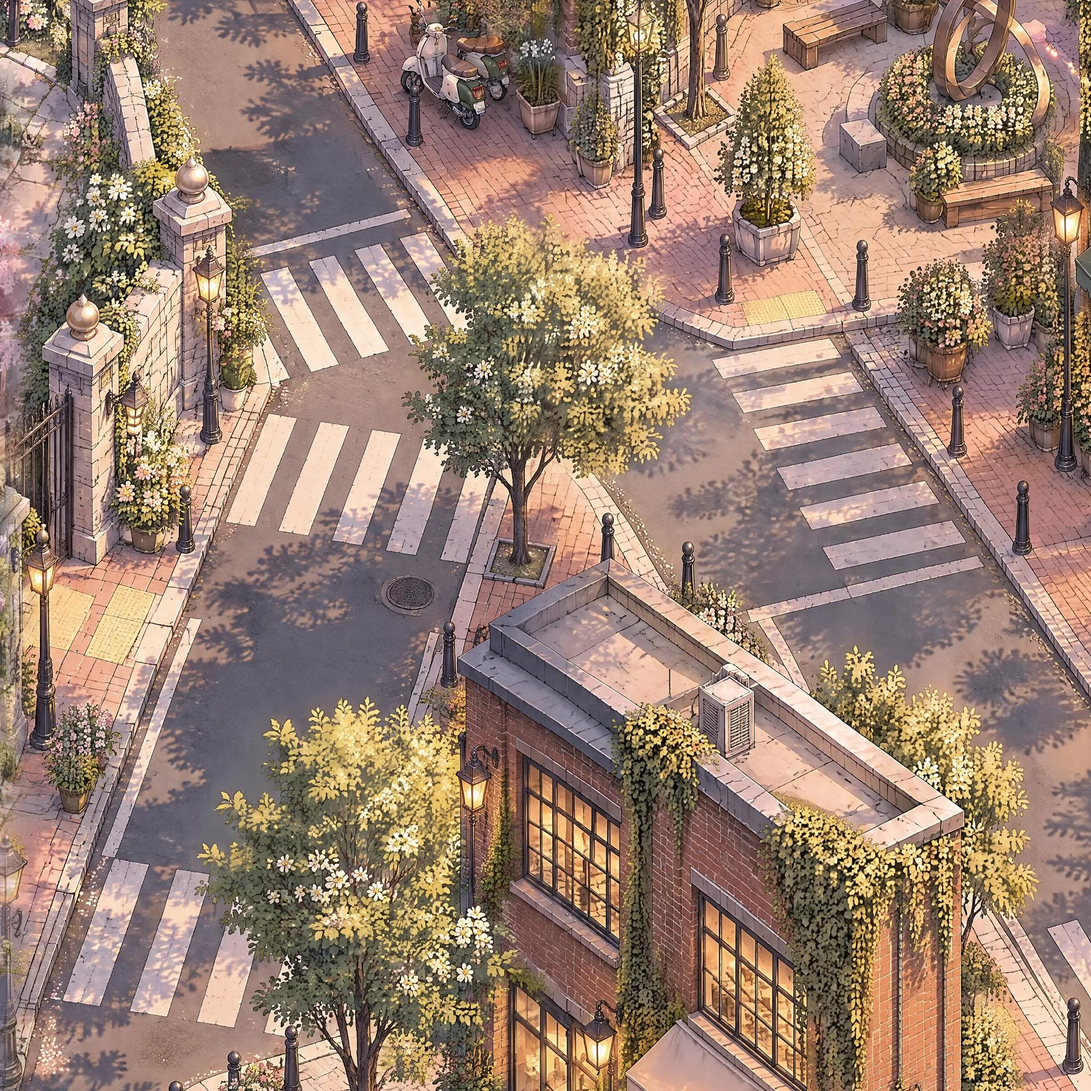
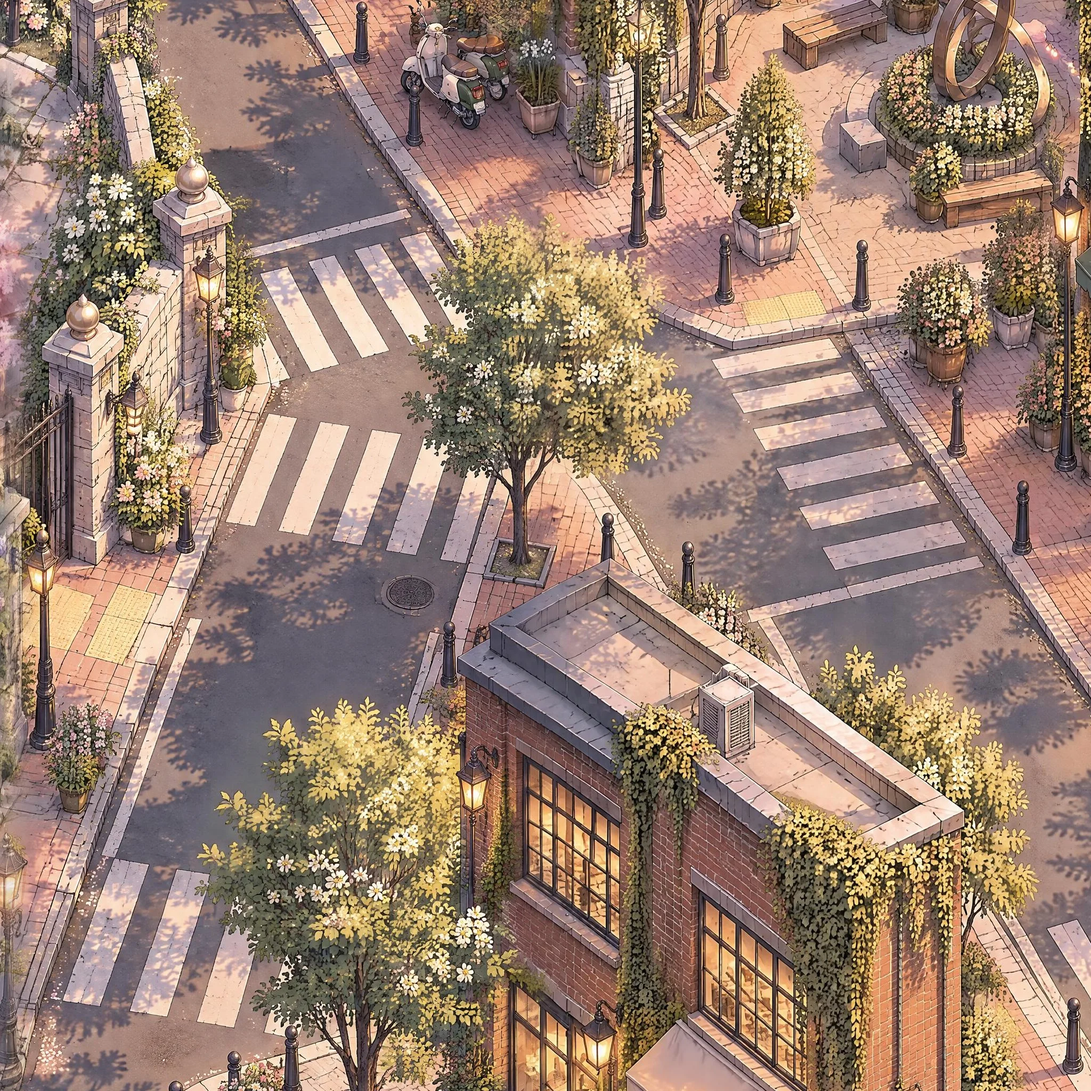
탐색 월드 축척 통일: 정문 광장·아래 정원·연못을 같은 축척으로 다시 그림, 걷기 분할·연결·지점 재배치
- 예전 축척(약 2배)으로 남아 있던 구역을 지우고 GPT Image 2.5로 다시 그림(V1·V2)
- 걷기 분할 다시 + 실제 포장길이 보이는 곳만 손보정으로 이어 하나의 걷기 영역으로
- 분수·폭포 물 위치, 가로등 빛, NPC·조사 지점·정문·1-1 자리를 새 그림에 맞춤
- story-field 테스트 좌표 갱신(전체 10개 실패 0)

Claude-Session: https://claude.ai/code/session_01Lq9L68PbbfzQzRiFAshpCf

diff --git a/src/explore/zones.ts b/src/explore/zones.ts
@@ -34,32 +34,32 @@ import WORLDS from '../game/data/explore-world.json'
 const WORLD = WORLDS.academy
 
 // 전경을 두지 않을 곳: 두 분수, 정문, 게시판, 연못 폭포
-const KEEP_CLEAR: [number, number][] = [[545, 3300], [1475, 1290], [984, 2700], [2328, 3028], [3495, 1400], [3490, 2580], [2100, 3100]]
+const KEEP_CLEAR: [number, number][] = [[1072, 2850], [1475, 1290], [1100, 2500], [1640, 2700], [3495, 1400], [3520, 2280], [3330, 3200], [1600, 2850]]
 
 const P = (n: number) => `[임시용 스토리 대사 ${String(n).padStart(2, '0')}]`
 
 export const ACADEMY: Zone = {
   id: 'academy', area: '아카데미 구역', areaEn: 'ACADEMY DISTRICT', place: '정문 광장', dir: 'explore/academy', W: WORLD.W, H: WORLD.H, tile: WORLD.tile, cols: WORLD.cols, rows: WORLD.rows,
   charH: 222, // 벤치 길이·가로등 높이와 비교해 맞춘 키(예전 330은 가로등만큼 커서 배경이 장난감처럼 보였다)
-  start: { x: 1536, y: 3268 },
+  start: { x: 1232, y: 2780 },
   intro: { x: 1250, y: 2350, z: 0.46 }, // 넓게: 본관 앞뜰과 정문을 함께 보여 주고 대원에게 돌진
   // 늦은 오후 햇빛: 왼쪽 위에서. 그림자는 오른쪽 아래로
   light: { amb: [0.8, 0.78, 0.86], sun: [0.26, 0.22, 0.16], dir: [-0.55, -0.62, 0.56], shadow: [0.62, 0.2] },
-  lamps: [{ x: 2745, y: 2821, r: 540, i: 0.35, c: [1, 0.72, 0.42] }, { x: 1851, y: 4024, r: 420, i: 0.3, c: [1, 0.72, 0.42] }, { x: 2438, y: 4132, r: 420, i: 0.3, c: [1, 0.72, 0.42] }],
+  lamps: [{ x: 333, y: 2350, r: 360, i: 0.35, c: [1, 0.72, 0.42] }, { x: 300, y: 2817, r: 360, i: 0.35, c: [1, 0.72, 0.42] }, { x: 1800, y: 2400, r: 360, i: 0.35, c: [1, 0.72, 0.42] }, { x: 1850, y: 2967, r: 360, i: 0.35, c: [1, 0.72, 0.42] }, { x: 1427, y: 4118, r: 300, i: 0.3, c: [1, 0.72, 0.42] }, { x: 855, y: 4245, r: 300, i: 0.3, c: [1, 0.72, 0.42] }],
   npcs: [
-    { id: 'npc-girl', name: '아카데미 학생', img: 'explore/npc-girl.webp', x: 1848, y: 2980, lines: [{ who: '아카데미 학생', text: P(1) }, { who: '아카데미 학생', text: P(2) }] },
-    { id: 'npc-boy', name: '안경 쓴 학생', img: 'explore/npc-boy.webp', x: 936, y: 3316, lines: [{ who: '안경 쓴 학생', text: P(3) }, { who: '안경 쓴 학생', text: P(4) }] },
-    { id: 'npc-girl-court', name: '본관 앞 학생', img: 'explore/npc-girl.webp', x: 1250, y: 1420, lines: [{ who: '본관 앞 학생', text: P(20) }] },
+    { id: 'npc-girl', name: '아카데미 학생', img: 'explore/npc-girl.webp', x: 1648, y: 2880, lines: [{ who: '아카데미 학생', text: P(1) }, { who: '아카데미 학생', text: P(2) }] },
+    { id: 'npc-boy', name: '안경 쓴 학생', img: 'explore/npc-boy.webp', x: 688, y: 2844, lines: [{ who: '안경 쓴 학생', text: P(3) }, { who: '안경 쓴 학생', text: P(4) }] },
+    { id: 'npc-girl-court', name: '본관 앞 학생', img: 'explore/npc-girl.webp', x: 1272, y: 1420, lines: [{ who: '본관 앞 학생', text: P(20) }] },
     { id: 'npc-boy-cafe', name: '카페 손님', img: 'explore/npc-boy.webp', x: 5080, y: 1960, lines: [{ who: '카페 손님', text: P(21) }] },
     { id: 'npc-girl-station', name: '역 앞 행인', img: 'explore/npc-girl.webp', x: 6900, y: 2620, lines: [{ who: '역 앞 행인', text: P(22) }] },
   ],
   spots: [
-    { id: 'board', label: '게시판', x: 2328, y: 3028, r: 264, kind: 'look', clue: '게시판의 공고문', lines: [{ text: P(5) }, { text: P(6) }] },
-    { id: 'gate', label: '정문 열기', x: 984, y: 2830, r: 304, kind: 'gate', lines: [{ text: P(7) }], to: { x: 1564, y: 2116 } },
-    { id: 'gate-in', label: '정문 밖으로', x: 1564, y: 2080, r: 220, kind: 'gate', lines: [], to: { x: 992, y: 2900 } },
-    { id: 'gazebo', label: '정원 정자', x: 720, y: 4360, r: 256, kind: 'look', lines: [{ text: P(8) }] },
-    { id: 'pond', label: '연못 다리', x: 3660, y: 3196, r: 240, kind: 'look', clue: '연못가의 쪽지', lines: [{ text: P(9) }, { text: P(10) }] },
-    { id: 'sign', label: '이정표', x: 4006, y: 4254, r: 224, kind: 'look', lines: [{ text: P(11) }] },
+    { id: 'board', label: '게시판', x: 1640, y: 2700, r: 200, kind: 'look', clue: '게시판의 공고문', lines: [{ text: P(5) }, { text: P(6) }] },
+    { id: 'gate', label: '정문 열기', x: 1100, y: 2600, r: 160, kind: 'gate', lines: [{ text: P(7) }], to: { x: 1148, y: 2144 } },
+    { id: 'gate-in', label: '정문 밖으로', x: 1150, y: 2190, r: 150, kind: 'gate', lines: [], to: { x: 1100, y: 2660 } },
+    { id: 'gazebo', label: '정원 정자', x: 520, y: 3960, r: 300, kind: 'look', lines: [{ text: P(8) }] },
+    { id: 'pond', label: '연못 다리', x: 3468, y: 2916, r: 200, kind: 'look', clue: '연못가의 쪽지', lines: [{ text: P(9) }, { text: P(10) }] },
+    { id: 'sign', label: '동쪽 옆문', x: 3680, y: 4392, r: 200, kind: 'look', lines: [{ text: P(11) }] },
     { id: 'hall', label: '아카데미 본관', x: 1620, y: 960, r: 300, kind: 'gate', lines: [{ text: P(12) }] },
     { id: 'clock', label: '시계탑 분수', x: 1440, y: 1240, r: 280, kind: 'look', clue: '분수대의 동전', lines: [{ text: P(13) }, { text: P(14) }] },
     { id: 'cafe', label: '카페 테라스', x: 4680, y: 1720, r: 280, kind: 'look', lines: [{ text: P(15) }] },
@@ -71,9 +71,9 @@ export const ACADEMY: Zone = {
   regions: [
     { name: '성수역 고가', en: 'SEONGSU STATION', code: 'AREA 06', x0: 6400, y0: 0, x1: 99999, y1: 2700 },
     { name: '성수 거리', en: 'SEONGSU STREET', code: 'AREA 05', x0: 4250, y0: 0, x1: 99999, y1: 99999 },
-    { name: '아래 정원', en: 'LOWER GARDEN', code: 'AREA 02', x0: 0, y0: 3952, x1: 99999, y1: 99999 },
-    { name: '벚꽃 연못', en: 'BLOSSOM POND', code: 'AREA 03', x0: 3150, y0: 1300, x1: 4250, y1: 3952 },
-    { name: '본관 앞뜰', en: 'MAIN HALL COURT', code: 'AREA 04', x0: 0, y0: 0, x1: 4250, y1: 2250 },
+    { name: '아래 정원', en: 'LOWER GARDEN', code: 'AREA 02', x0: 0, y0: 3550, x1: 3000, y1: 99999 },
+    { name: '벚꽃 연못', en: 'BLOSSOM POND', code: 'AREA 03', x0: 2000, y0: 2250, x1: 4250, y1: 99999 },
+    { name: '본관 앞뜰', en: 'MAIN HALL COURT', code: 'AREA 04', x0: 0, y0: 0, x1: 4250, y1: 2300 },
     { name: '정문 광장', en: 'FRONT PLAZA', code: 'AREA 01', x0: 0, y0: 0, x1: 99999, y1: 99999 },
   ],
   amb: 'amb_academy',
@@ -82,7 +82,7 @@ export const ACADEMY: Zone = {
   placeEn: 'FRONT PLAZA',
   // 사건 파일 1장 노드 → 필드 위치(걸어서 닿는 자리로 맞춤). 1장 무대(성수역 교차로·뒷골목·변전소 쪽)를 성수 거리·성수역에 배치
   events: {
-    'c1-1': { x: 2100, y: 3100, r: 220 }, // 출동 명령 — 정문 광장 게시판 앞
+    'c1-1': { x: 1600, y: 2848, r: 170 }, // 출동 명령 — 정문 광장 게시판 앞
     'c1-2': { x: 4868, y: 2672, r: 260 }, // 차단된 교차로 — 성수 거리 교차로
     'c1-3': { x: 5672, y: 3264, r: 240 }, // 쓰러진 중계기 — 뒷골목
     'c1-4': { x: 6200, y: 3900, r: 260 }, // 끊긴 신호
@@ -94,9 +94,9 @@ export const ACADEMY: Zone = {
   water: {
     fountains: [
       { spout: [1460, 1062], tiers: [{ xs: [1420, 1450, 1480, 1505], y0: 1132, y1: 1172 }, { xs: [1362, 1393, 1416, 1503, 1543], y0: 1182, y1: 1242 }] }, // 본관 앞 시계탑 분수
-      { spout: [545, 3212], tiers: [{ xs: [505, 555, 600], y0: 3250, y1: 3300 }, { xs: [450, 487, 569, 646, 661], y0: 3336, y1: 3448 }] },   // 정문 광장 분수
+      { spout: [1072, 2690], tiers: [{ xs: [978, 1010, 1100, 1160], y0: 2795, y1: 2925 }] },   // 정문 광장 분수(다시 그린 그림)
     ],
-    falls: [{ x: 3458, y: 1318, w: 74, h: 150 }, { x: 3452, y: 2508, w: 74, h: 142 }, { x: 2722, y: 3972, w: 66, h: 56 }],
+    falls: [{ x: 3458, y: 1318, w: 74, h: 150 }, { x: 3482, y: 2172, w: 92, h: 170 }, { x: 3262, y: 3140, w: 80, h: 70 }],
   },
   // 전경 수풀은 분수·조사 지점·사건 자리를 가리지 않게 그 근처에서는 뺀다
   fg: ((WORLD as unknown as { fg?: Zone['fg'] }).fg ?? []).filter((f) => !KEEP_CLEAR.some(([x, y]) => Math.hypot(f.x - x, f.y - y) < 620)),

diff --git a/docs/story-mode.md b/docs/story-mode.md
@@ -63,3 +63,9 @@
   손보정 다각형으로 직접 그렸고(`overrides.json`), `zoomwalk.py` 겹쳐 보기로 구역마다 확인. 닫힌 정문은 막고, 상호작용으로 통과(암전 전환).
 - **스토리 흐름:** 스테이지 목록 화면을 없애고 로비 '스토리' = 탐색 필드. 사건 파일 1장 노드 8개를 필드 자리에 배치(`zones.ts` events),
   다음 노드 하나만 ◆로 표시. 이야기·조사는 필드 위에서, 전투 노드는 조우 연출 → 전투 화면 → 끝나면 같은 자리로 복귀(진입 연출 없이).
+
+## 축척 통일 (2026-10-25 2차)
+- 캐릭터 키 330→222(벤치·가로등·계단과 비교해 맞춤), 카메라 0.5→0.74로 당겨 화면 속 캐릭터 크기는 비슷하게 유지.
+- 처음 그린 정문 광장·아래 정원·연못은 다른 구역보다 약 2배 크게 그려져 있어 지우고 GPT Image 2.5로 같은 축척으로 다시 그림(V1·V2, 약 54크레딧).
+  걷기 분할 다시(30크레딧) + 손보정 연결로 모든 지점을 하나로 이음. 분수·폭포 위치, 가로등 빛, NPC·조사 지점·1-1 자리도 새 그림에 맞춤.
+- 화면 처리: 틸트시프트 흐림 약하게 + 가운데 선명도 보정. 예전 그림은 tools/explore/world/world_v2.png(저장소 밖)에 보관.
